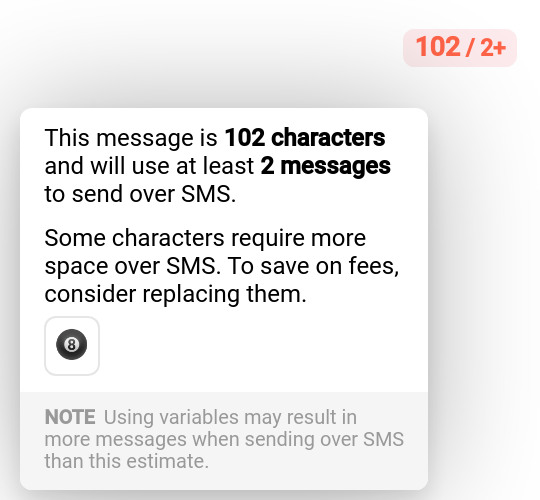
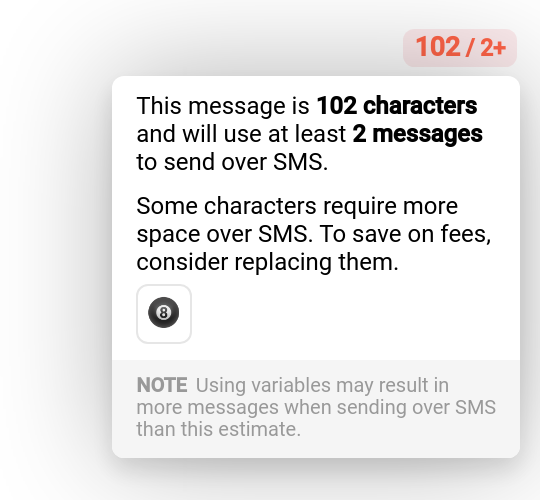
Fix character counter popup positioning and clipping (#877)
Right-align the popup with the counter and ensure it displays above all content. The popup now uses margin-based positioning with a mouseenter handler to work correctly in both normal contexts and inside CSS transform ancestors (like the editor's zoom). Removed overflow constraints that were clipping the popup.

Changed region(s): [[0.0, 0.15, 1.0, 1.0], [0.7704, 0.12, 0.9185, 0.15]]

diff --git a/src/display/CharCount.ts b/src/display/CharCount.ts
@@ -170,7 +170,7 @@ export class CharCount extends RapidElement {
   static get styles() {
     return css`
       :host {
-        overflow: auto;
+        overflow: visible;
       }
 
       :host::after {
@@ -215,8 +215,6 @@ export class CharCount extends RapidElement {
         visibility: hidden;
         text-align: left;
         position: fixed;
-        margin-left: -190px;
-        margin-top: 20px;
         z-index: 1000;
       }
 
@@ -300,6 +298,17 @@ export class CharCount extends RapidElement {
     this.count = this.text.length;
   }
 
+  private handleCounterMouseEnter(e: MouseEvent) {
+    const counter = e.currentTarget as HTMLElement;
+    const summary = counter.querySelector('.summary') as HTMLElement;
+    if (!summary) return;
+
+    // Use margin-based positioning so it works both in normal contexts
+    // and inside CSS transform ancestors (where fixed acts like absolute)
+    summary.style.marginLeft = `${counter.offsetWidth - summary.offsetWidth}px`;
+    summary.style.marginTop = '4px';
+  }
+
   public render(): TemplateResult {
     const hasExpressions = this.text && this.text.indexOf('@') > -1;
 
@@ -348,7 +357,7 @@ export class CharCount extends RapidElement {
 
     return html`<div class="counter${
       attention ? ' attention' : ''
-    }"><div class="counts">${this.count}${
+    }" @mouseenter=${this.handleCounterMouseEnter}><div class="counts">${this.count}${
       this.segments > 1 || hasExpressions
         ? html`<div class="segments">
             &nbsp;/&nbsp;${this.segments}${hasExpressions ? html`+` : null}

diff --git a/src/form/Compose.ts b/src/form/Compose.ts
@@ -82,12 +82,7 @@ export class Compose extends FieldElement {
 
       temba-charcount {
         margin-right: 5px;
-        overflow: hidden;
         --temba-charcount-counts-margin-top: 0px;
-        --temba-charcount-summary-margin-top: 0px;
-        --temba-charcount-summary-position: fixed;
-        --temba-charcount-summary-right: 105px;
-        --temba-charcount-summary-bottom: 105px;
       }
 
       .send-error {
